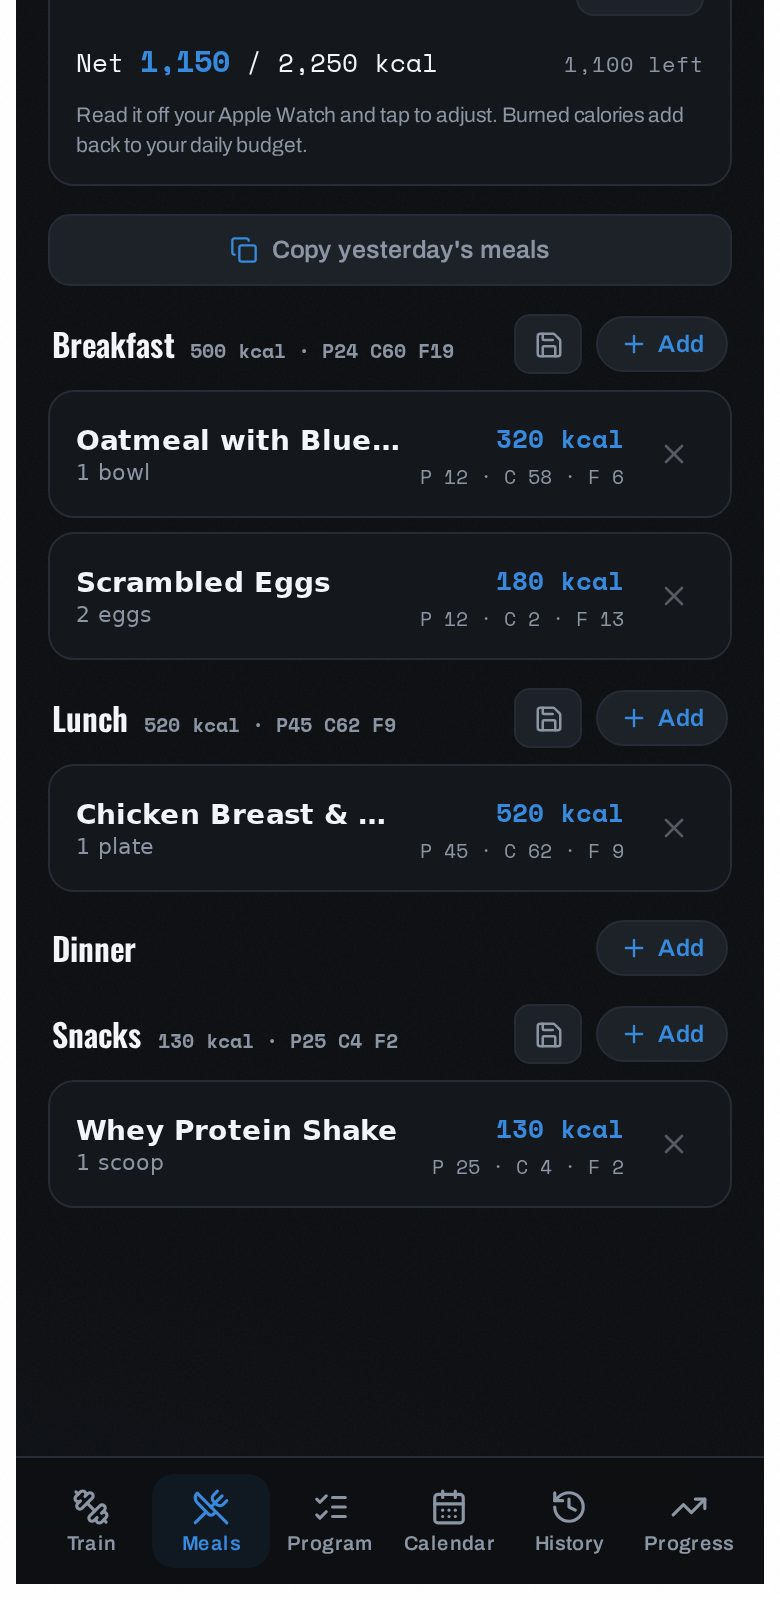
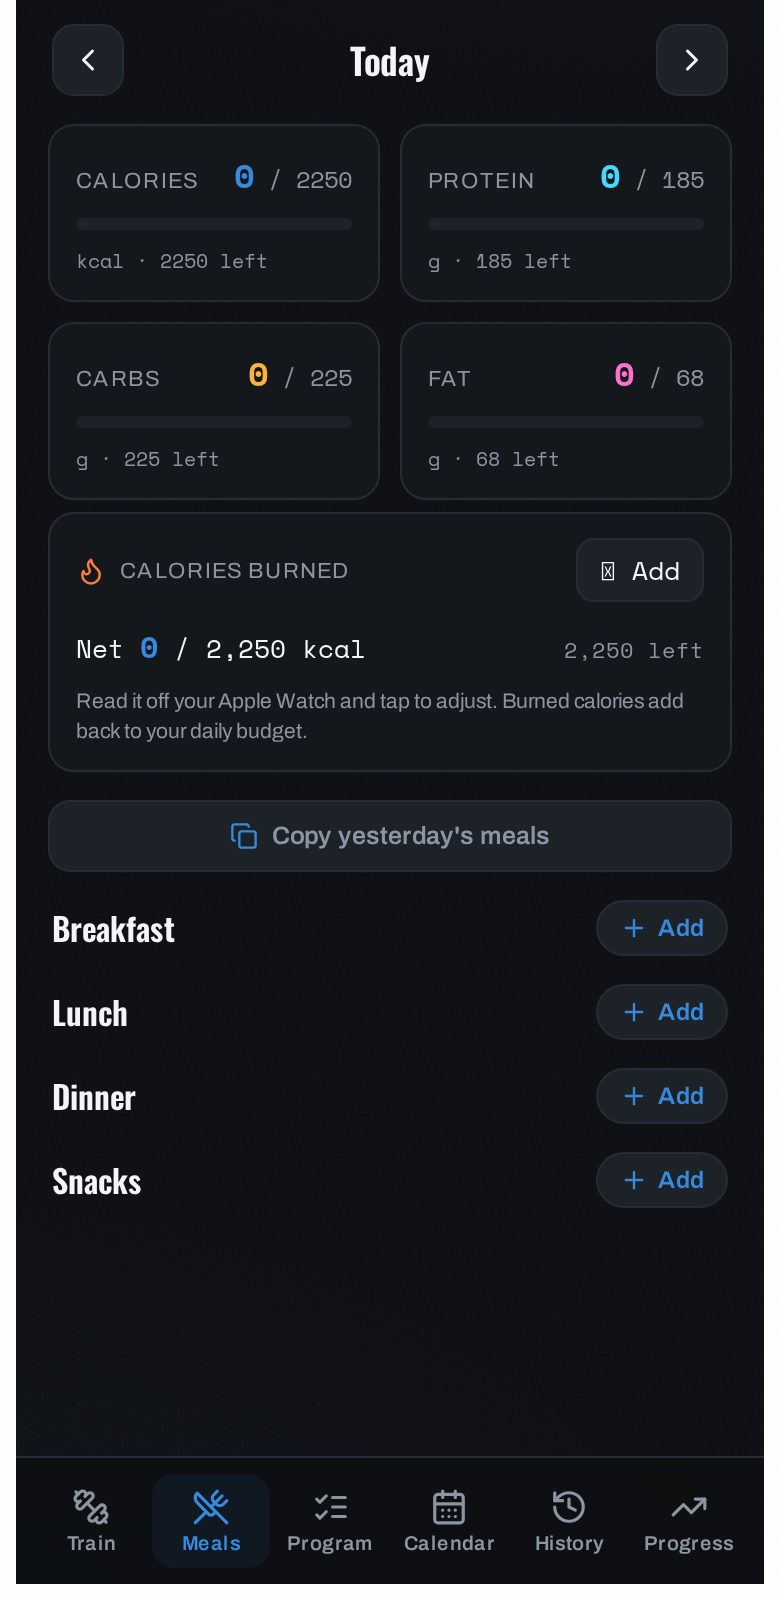
Live-workout HUD v3: hero header with 74px rest ring, per mockup
Frontend only — no server or API changes. Refines the set-logger HUD to
match the target design:

- The session header becomes the hero in HUD mode (CSS grid): row one is
  back / "{TAG} · LIVE  n/m SETS" strip / list toggle; row two is a 74px
  rest ring (thicker track, mm:ss + REST label) beside the "EXERCISE N OF
  M" eyebrow, exercise name (18px/500), and the variation / last-set /
  PR-pace chips. Header children keep stable slots in both modes so the
  RestTimer instance is never remounted — a running countdown survives
  view toggles (verified: 1:29 -> toggle to list -> back at 1:28).
- RestTimer gains a display-only `big` prop (74px vs 48px geometry);
  countdown internals untouched, popup still opens from the ring.
- Value boxes: inner-card tone (--bg + --line border), 26px mono numerals.
- One-tap logging: "Log set N" now commits the suggested placeholder
  numbers (previous set / last session's matching set) into empty fields
  before marking done — suggestions still never persist without logging.
- Remove-set affordance: re-opening a set via its circle shows a red x
  beside Undo (removeSet, min one set), so set surgery works in HUD mode.
- NEXT caption restyled to dim letterspaced mono (borderless, tappable).
- Editing a past workout (_editing) now opens in list mode.
- README session screenshot regenerated.

Verified with Playwright: one-tap log committed 200x11, pip re-open +
remove affordance, ring toggle-survival, 74px hero ring, editing->list;
[…]

diff --git a/src/workout-tracker.jsx b/src/workout-tracker.jsx
@@ -1091,9 +1091,11 @@ function ActiveSession({ active, setActive, sessions, onFinish, onCancel }) {
   const [restSignal, setRestSignal] = useState(0);
   const [help, setHelp] = useState(null); // { name, variation } for the form-guide modal
   const [plateTarget, setPlateTarget] = useState(null); // pre-fill weight for the plate calc sheet
-  const [mode, setMode] = useState("focus");   // 'focus' = one exercise at a time | 'list' = all cards
-  const [focusKey, setFocusKey] = useState(null); // manually-tapped exercise (overrides auto-focus)
   const editing = !!active._editing; // re-opened from History to fix a past workout
+  // HUD is the default for live training; editing a past workout opens the
+  // full list view where every set row is visible at once
+  const [mode, setMode] = useState(editing ? "list" : "focus"); // 'focus' | 'list'
+  const [focusKey, setFocusKey] = useState(null); // manually-tapped exercise (overrides auto-focus)
 
   // Keep the screen awake during a workout — phones otherwise lock mid-set.
   // Re-acquire when the tab becomes visible again (the OS silently releases
@@ -1187,6 +1189,16 @@ function ActiveSession({ active, setActive, sessions, onFinish, onCancel }) {
   // or a set is (un)logged, so the HUD auto-advances.
   const [setSel, setSetSel] = useState(null);
   useEffect(() => { setSetSel(null); }, [focusedEx?.key]); // eslint-disable-line react-hooks/exhaustive-deps
+
+  // PR math for the focused exercise — shared by the hero chips (header) and
+  // the logger card readout
+  const isHud = mode === "focus" && !!focusedEx;
+  const focusStats = focusedEx ? (() => {
+    const last = lastPerformance(sessions, focusedEx.name, focusedEx.variation, active.id);
+    const curBest = bestSetE1rm(focusedEx.sets);
+    const histBest = historicalBestE1rm(sessions, focusedEx.name, focusedEx.variation, active.id);
+    return { last, curBest, histBest, isPR: curBest > 0 && curBest > histBest };
+  })() : null;
 
   // One exercise card — identical internals in both modes; `inFocus` only
   // adds the supersized-for-the-gym styling hooks.
@@ -1308,14 +1320,12 @@ function ActiveSession({ active, setActive, sessions, onFinish, onCancel }) {
     );
   };
 
-  // Focus-mode HUD: hero header + one SET at a time with giant tiles and a
+  // Focus-mode HUD logger: one SET at a time with giant value boxes and a
   // single Log action. Same data operations as the card — different shell.
+  // (The hero — ring, exercise name, chips — lives in the session header.)
   const renderFocusHud = () => {
     const ex = focusedEx;
-    const last = lastPerformance(sessions, ex.name, ex.variation, active.id);
-    const curBest = bestSetE1rm(ex.sets);
-    const histBest = historicalBestE1rm(sessions, ex.name, ex.variation, active.id);
-    const isPR = curBest > 0 && curBest > histBest;
+    const { last, curBest, histBest, isPR } = focusStats;
     const sets = ex.sets;
     const firstOpen = sets.findIndex((st) => !st.done);
     const curIdx = setSel != null && setSel < sets.length
@@ -1323,37 +1333,26 @@ function ActiveSession({ active, setActive, sessions, onFinish, onCancel }) {
       : (firstOpen !== -1 ? firstOpen : sets.length - 1);
     const cur = sets[curIdx];
     const lastTop = last?.sets?.[0];
-    // suggested numbers, shown as placeholders only (never auto-logged)
+    // suggested numbers: previous set, else last session's matching set. Shown
+    // as placeholders; committed into the set only when "Log set" is tapped
+    // (isLogged saves any set with a value, so hard-prefill would create
+    // phantom sets on an early finish).
     const phW = (curIdx > 0 && sets[curIdx - 1].w !== "" ? sets[curIdx - 1].w : last?.sets?.[curIdx]?.w) || "lbs";
     const phR = last?.sets?.[curIdx]?.r || "reps";
+    const numish = (v) => v !== "" && v != null && !isNaN(parseFloat(v));
     const round1 = (n) => Math.round(n * 10) / 10;
+    const logSet = () => {
+      if (!cur.done) {
+        // commit the suggested numbers the lifter accepted by not editing
+        if (cur.w === "" && numish(phW)) setField(ex.key, curIdx, "w", String(phW));
+        if (cur.r === "" && numish(phR)) setField(ex.key, curIdx, "r", String(phR));
+      }
+      toggleDone(ex.key, curIdx);
+      setSetSel(null);
+    };
 
     return (
       <div className="hud fade-in">
-        <div className="hud-top">
-          <span>{active.tag || "DAY"} · {editing ? "EDITING" : "LIVE"}</span>
-          <span>{doneSets}/{totalSets} SETS</span>
-        </div>
-
-        <div className="hud-hero">
-          <div className="hud-eyebrow">EXERCISE {focusedIdx + 1} OF {exs.length}</div>
-          <h2 className="hud-name">{ex.name}</h2>
-          <div className="hud-chips">
-            {ex.variations.length > 0 && (
-              <button
-                className="hud-chip hud-chip-var"
-                title="switch variation"
-                onClick={() => setVariation(
-                  ex.key,
-                  ex.variations[(Math.max(0, ex.variations.indexOf(ex.variation)) + 1) % ex.variations.length]
-                )}
-              >{ex.variation || ex.variations[0]}</button>
-            )}
-            {lastTop && <span className="hud-chip hud-chip-last">last {lastTop.w || "–"}×{lastTop.r || "–"}</span>}
-            {isPR && <span className="pace-chip">PR pace</span>}
-          </div>
-        </div>
-
         {cur && (
           <div className="hud-logger">
             <div className="hud-tiles">
@@ -1396,12 +1395,22 @@ function ActiveSession({ active, setActive, sessions, onFinish, onCancel }) {
               )}
             </div>
 
-            <button
-              className={`hud-log ${cur.done ? "hud-log-undo" : ""}`}
-              onClick={() => { toggleDone(ex.key, curIdx); setSetSel(null); }}
-            >
-              {cur.done ? `Undo set ${curIdx + 1}` : `Log set ${curIdx + 1}`}
-            </button>
+            <div className="hud-logrow">
+              <button
+                className={`hud-log ${cur.done ? "hud-log-undo" : ""}`}
+                onClick={logSet}
+              >
+                {cur.done ? `Undo set ${curIdx + 1}` : `Log set ${curIdx + 1}`}
+              </button>
+              {setSel != null && sets.length > 1 && (
+                <button
+                  className="hud-remove"
+                  aria-label={`remove set ${curIdx + 1}`}
+                  title="Remove this set"
+                  onClick={() => { removeSet(ex.key, curIdx); setSetSel(null); }}
+                ><X size={18} /></button>
+              )}
+            </div>
 
             <div className="hud-aux">
               <button onClick={() => {
@@ -1456,15 +1465,25 @@ function ActiveSession({ active, setActive, sessions, onFinish, onCancel }) {
 
   return (
     <div className="session">
-      <header className="session-head">
-        <button className="icon-btn" onClick={() => setConfirmCancel(true)}><ChevronLeft size={22} /></button>
-        <div className="session-title">
-          <span className="day-tag sm">{active.tag}</span>
-          <div>
-            <h2>{active.dayName}</h2>
-            <p>{active.focus}</p>
+      {/* In HUD mode the header IS the hero (top strip + big ring + exercise
+          heading). Children keep stable slots in both modes so the RestTimer
+          instance is never remounted — a running countdown survives toggles. */}
+      <header className={`session-head ${isHud ? "session-head-hud" : ""}`}>
+        <button className="icon-btn sh-back" onClick={() => setConfirmCancel(true)}><ChevronLeft size={22} /></button>
+        {isHud ? (
+          <div className="hud-top">
+            <span>{active.tag || "DAY"} · {editing ? "EDITING" : "LIVE"}</span>
+            <span>{doneSets}/{totalSets} SETS</span>
           </div>
-        </div>
+        ) : (
+          <div className="session-title">
+            <span className="day-tag sm">{active.tag}</span>
+            <div>
+              <h2>{active.dayName}</h2>
+              <p>{active.focus}</p>
+            </div>
+          </div>
+        )}
         <button
           className="icon-btn mode-toggle"
           onClick={() => setMode((m) => (m === "focus" ? "list" : "focus"))}
@@ -1473,7 +1492,31 @@ function ActiveSession({ active, setActive, sessions, onFinish, onCancel }) {
         >
           {mode === "focus" ? <ListChecks size={19} /> : <Target size={19} />}
         </button>
-        <RestTimer autoSignal={restSignal} />
+        {isHud ? (
+          <div className="hud-hero">
+            <div className="hud-eyebrow">EXERCISE {focusedIdx + 1} OF {exs.length}</div>
+            <h2 className="hud-name">{focusedEx.name}</h2>
+            <div className="hud-chips">
+              {focusedEx.variations.length > 0 && (
+                <button
+                  className="hud-chip hud-chip-var"
+                  title="switch variation"
+                  onClick={() => setVariation(
+                    focusedEx.key,
+                    focusedEx.variations[(Math.max(0, focusedEx.variations.indexOf(focusedEx.variation)) + 1) % focusedEx.variations.length]
+                  )}
+                >{focusedEx.variation || focusedEx.variations[0]}</button>
+              )}
+              {focusStats.last?.sets?.[0] && (
+                <span className="hud-chip hud-chip-last">
+                  last {focusStats.last.sets[0].w || "–"}×{focusStats.last.sets[0].r || "–"}
+                </span>
+              )}
+              {focusStats.isPR && <span className="pace-chip">PR pace</span>}
+            </div>
+          </div>
+        ) : null}
+        <RestTimer autoSignal={restSignal} big={isHud} />
       </header>
 
       {(mode === "list" || !focusedEx) && (
@@ -1611,7 +1654,7 @@ const REST_PREFS_KEY = "ironlog.restPrefs";
 const loadRestPrefs = () => { try { return JSON.parse(localStorage.getItem(REST_PREFS_KEY)) || {}; } catch { return {}; } };
 const clampRest = (s) => Math.min(3600, Math.max(5, Math.round(s) || 0));
 
-function RestTimer({ autoSignal = 0 }) {
+function RestTimer({ autoSignal = 0, big = false }) {
   const prefs = useRef(loadRestPrefs());
   const [open, setOpen] = useState(false);
   const [remaining, setRemaining] = useState(0);
@@ -1734,28 +1777,33 @@ function RestTimer({ autoSignal = 0 }) {
   const live = running || remaining > 0;          // a countdown is in progress (running or paused)
   const pctLeft = duration ? Math.min(100, Math.max(0, (remaining / duration) * 100)) : 0;
 
-  // progress ring geometry (48px button, 4px stroke). The arc drains as the
-  // rest elapses; +15s adjustments can push remaining past duration — clamp.
-  const RING_R = 22, RING_C = 2 * Math.PI * RING_R;
+  // Progress-ring geometry — display only; the countdown itself still derives
+  // from the wall-clock end timestamp above. `big` (the HUD hero) renders a
+  // 74px ring with a thicker track; the compact 48px ring lives in the list
+  // header. +15s adjustments can push remaining past duration — clamp.
+  const SIZE = big ? 74 : 48;
+  const RING_R = big ? 33 : 22;
+  const RING_C = 2 * Math.PI * RING_R;
+  const MID = SIZE / 2;
   const fracLeft = duration ? Math.min(1, Math.max(0, remaining / duration)) : 0;
 
   return (
     <>
-    <div className="rest">
+    <div className={`rest ${big ? "rest-big-slot" : ""}`}>
       <button
-        className={`icon-btn timer-btn ${live ? "timer-on timer-ring-btn" : ""} ${running ? "timer-live" : ""}`}
+        className={`icon-btn timer-btn ${live ? "timer-on timer-ring-btn" : ""} ${big ? "timer-big" : ""} ${running ? "timer-live" : ""}`}
         onClick={() => setOpen((o) => !o)}
         aria-label={live ? `rest timer, ${mmss} remaining` : "rest timer"}
       >
         {live ? (
-          <span className="timer-ring">
-            <svg width="48" height="48" viewBox="0 0 48 48" aria-hidden="true">
-              <circle className="ring-track" cx="24" cy="24" r={RING_R} />
+          <span className="timer-ring" style={{ width: SIZE, height: SIZE }}>
+            <svg width={SIZE} height={SIZE} viewBox={`0 0 ${SIZE} ${SIZE}`} aria-hidden="true">
+              <circle className="ring-track" cx={MID} cy={MID} r={RING_R} />
               <circle
-                className="ring-arc" cx="24" cy="24" r={RING_R}
+                className="ring-arc" cx={MID} cy={MID} r={RING_R}
                 strokeDasharray={RING_C}
                 strokeDashoffset={RING_C * (1 - fracLeft)}
-                transform="rotate(-90 24 24)"
+                transform={`rotate(-90 ${MID} ${MID})`}
               />
             </svg>
             <span className={`timer-count ${remaining >= 600 ? "timer-count-sm" : ""}`}>
@@ -1763,7 +1811,7 @@ function RestTimer({ autoSignal = 0 }) {
               <i className="timer-sub">REST</i>
             </span>
           </span>
-        ) : <Timer size={20} />}
+        ) : <Timer size={big ? 24 : 20} />}
       </button>
       {open && (
         <div className="rest-pop">
@@ -3652,14 +3700,29 @@ function FontsAndStyles() {
 
       /* FOCUS MODE — one SET owns the screen (HUD) */
       .mode-toggle { border-radius:50%; }
+      /* header-as-hero grid: row 1 = back / top strip / toggle, row 2 = ring / heading */
+      .session-head-hud { display:grid; grid-template-columns:auto 1fr auto;
+        grid-template-areas:"back strip toggle" "timer hero hero";
+        row-gap:16px; column-gap:12px; align-items:center; }
+      .session-head-hud .sh-back { grid-area:back; }
+      .session-head-hud .hud-top { grid-area:strip; }
+      .session-head-hud .mode-toggle { grid-area:toggle; }
+      .session-head-hud .hud-hero { grid-area:hero; min-width:0; }
+      .session-head-hud .rest { grid-area:timer; justify-self:start; }
       .hud-top { display:flex; align-items:center; justify-content:space-between;
-        padding:6px 4px 14px; font-family:'Space Mono',monospace; font-size:11px; font-weight:700;
+        padding:0 4px; font-family:'Space Mono',monospace; font-size:10.5px; font-weight:700;
         letter-spacing:.22em; color:var(--muted); }
-      .hud-hero { padding:0 4px 14px; }
       .hud-eyebrow { font-family:'Space Mono',monospace; font-size:11px; font-weight:700;
         letter-spacing:.18em; color:var(--muted); }
-      .hud-name { margin:6px 0 10px; font-family:'Oswald'; font-weight:600; font-size:30px;
-        line-height:1.1; }
+      .hud-name { margin:5px 0 9px; font-family:'Archivo'; font-weight:500; font-size:18px;
+        line-height:1.2; color:var(--text); overflow:hidden; text-overflow:ellipsis; white-space:nowrap; }
+      /* big hero ring (display-only skin of the same timer) */
+      .timer-big { width:74px; min-width:74px; height:74px; border-radius:50%; }
+      .timer-big.timer-ring-btn { width:74px; min-width:74px; height:74px; padding:0; border:none; background:none; }
+      .timer-big .ring-track, .timer-big .ring-arc { stroke-width:5.5; }
+      .timer-big .timer-count { font-size:16px; }
+      .timer-big .timer-count.timer-count-sm { font-size:12px; }
+      .timer-big .timer-sub { font-size:7px; }
       .hud-chips { display:flex; align-items:center; gap:8px; flex-wrap:wrap; }
       .hud-chip { border-radius:9px; padding:7px 12px; font-family:'Archivo'; font-size:13px;
         font-weight:600; border:1px solid var(--line); }
@@ -3670,14 +3733,14 @@ function FontsAndStyles() {
       .hud-logger { background:var(--surface); border:1px solid var(--line); border-radius:18px;
         padding:16px; }
       .hud-tiles { display:grid; grid-template-columns:1fr 1fr; gap:12px; }
-      .hud-tile { display:flex; flex-direction:column; align-items:center; gap:2px;
-        background:var(--surface2); border:1px solid var(--line); border-radius:14px;
-        padding:14px 8px 10px; }
+      .hud-tile { display:flex; flex-direction:column; align-items:center; gap:4px;
+        background:var(--bg); border:1px solid var(--line); border-radius:14px;
+        padding:14px 8px 12px; }
       .hud-tile:focus-within { border-color:var(--accent); }
       .hud-tile span { font-family:'Space Mono',monospace; font-size:10px; font-weight:700;
         letter-spacing:.22em; color:var(--muted); }
       .hud-tile input { width:100%; background:none; border:none; outline:none; text-align:center;
-        color:var(--text); font-family:'Space Mono',monospace; font-size:34px; font-weight:700; }
+        color:var(--text); font-family:'Space Mono',monospace; font-size:26px; font-weight:700; }
       .hud-tile input::placeholder { color:#4a5260; }
       .hud-mid { display:flex; align-items:center; justify-content:space-between; gap:10px;
         margin:14px 0; flex-wrap:wrap; }
@@ -3691,12 +3754,17 @@ function FontsAndStyles() {
       .hud-e1rm { font-family:'Space Mono',monospace; font-size:12.5px; color:var(--muted); }
       .hud-e1rm b { color:var(--text); font-weight:700; }
       .hud-e1rm b.e1rm-up { color:var(--accent-2); }
-      .hud-log { width:100%; background:var(--accent); color:#071019; border:none; border-radius:14px;
+      .hud-logrow { display:flex; gap:10px; }
+      .hud-log { flex:1; background:var(--accent); color:#071019; border:none; border-radius:14px;
         font-family:'Archivo'; font-size:17px; font-weight:700; padding:16px; cursor:pointer;
         box-shadow:0 8px 24px rgba(55,138,221,.22); }
       .hud-log:active { transform:scale(.99); }
       .hud-log-undo { background:var(--surface2); color:var(--muted); border:1px solid var(--line);
         box-shadow:none; }
+      .hud-remove { width:54px; border-radius:14px; background:var(--surface2);
+        border:1px solid var(--line); color:var(--danger); display:flex; align-items:center;
+        justify-content:center; cursor:pointer; flex-shrink:0; }
+      .hud-remove:active { border-color:var(--danger); }
       .hud-aux { display:grid; grid-template-columns:1fr 1fr; gap:10px; margin-top:10px; }
       .hud-aux button { display:flex; align-items:center; justify-content:center; gap:7px;
         background:var(--surface2); border:1px solid var(--line); color:var(--text);
@@ -3706,11 +3774,11 @@ function FontsAndStyles() {
       .hud-note { margin-top:10px; }
       .hud-session-meta { margin-top:16px; }
       .hud-session-meta .date-row, .hud-session-meta .note-row { padding-left:0; padding-right:0; }
-      .next-ex-btn { width:100%; background:none; border:1px dashed var(--line); color:var(--muted); text-transform:uppercase;
-        font-family:'Space Mono',monospace; font-size:12px; font-weight:700; letter-spacing:.08em;
-        padding:13px 15px; border-radius:12px; cursor:pointer; margin-bottom:13px; text-align:left;
-        white-space:nowrap; overflow:hidden; text-overflow:ellipsis; transition:border-color .15s, color .15s; }
-      .next-ex-btn:active, .next-ex-btn:hover { border-color:var(--accent); color:var(--accent); }
+      .next-ex-btn { width:100%; background:none; border:none; color:var(--muted); text-transform:uppercase;
+        font-family:'Space Mono',monospace; font-size:11.5px; font-weight:700; letter-spacing:.14em;
+        padding:14px 6px; cursor:pointer; margin-bottom:6px; text-align:left;
+        white-space:nowrap; overflow:hidden; text-overflow:ellipsis; transition:color .15s; }
+      .next-ex-btn:active, .next-ex-btn:hover { color:var(--accent); }
       .ex-queue { display:flex; flex-direction:column; gap:8px; }
       .ex-row { display:flex; align-items:center; gap:12px; width:100%; text-align:left;
         background:var(--surface); border:1px solid var(--line); border-radius:12px;
